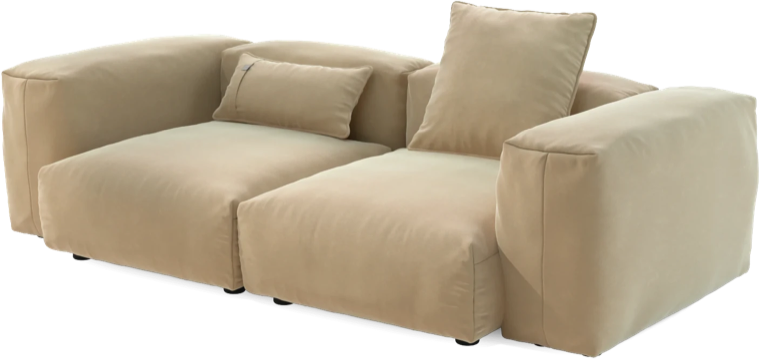
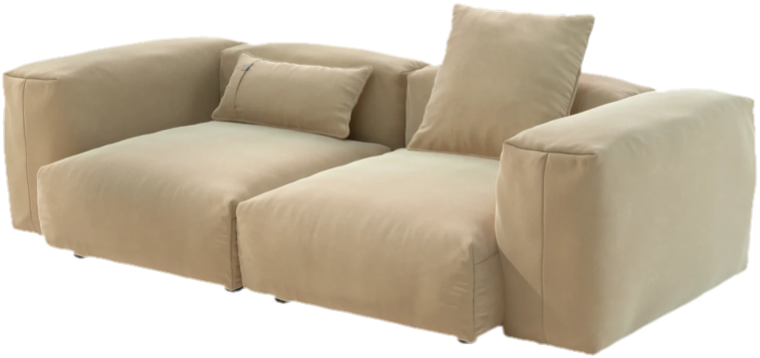
Look: shadow along the real bottom outline, files lying flat, clean sofa edge
- The floor shadow follows each chair's bottom outline column by column, so it
  sits under the feet on slanted photos instead of floating as a flat band.
- Files on the pile lie flat (stronger tilt back), a bit smaller, with a tight
  contact shadow; the sand sofa's seat point keeps them on the cushions.
- Pre-cut pictures get their edge pulled in by two pixels, removing the white
  rim left from the original white background (sand sofa re-cut).

diff --git a/Sources/Sofaonmac/SofaView.swift b/Sources/Sofaonmac/SofaView.swift
@@ -47,25 +47,27 @@ struct SofaView: View {
         }
     }
 
-    /// The chair's own outline, squashed flat onto the floor and blurred: a contact shadow that fits every
-    /// shape (legs, arms, a lopsided bean bag), plus a wide, very soft one around it.
+    /// A shadow that runs along the chair's actual bottom outline (feet, edges, slanted photos alike):
+    /// a dark, tight contact shadow right at the outline and a wide, soft one around it.
+    /// It's drawn behind the chair, so only the part below the outline shows.
     private func floorShadow(_ chair: CGRect) -> some View {
-        let silhouette = Image(nsImage: model.style.image).resizable().renderingMode(.template)
-        return ZStack {
-            silhouette
-                .foregroundStyle(.black.opacity(0.22))
-                .frame(width: chair.width * 1.04, height: chair.height)
-                .scaleEffect(x: 1, y: 0.16, anchor: .bottom)
-                .blur(radius: 14)
-            silhouette
-                .foregroundStyle(.black.opacity(0.4))
-                .frame(width: chair.width * 0.96, height: chair.height)
-                .scaleEffect(x: 1, y: 0.06, anchor: .bottom)
-                .blur(radius: 4)
+        let profile = model.style.bottomProfile.map {
+            CGPoint(x: chair.minX + chair.width * $0.x, y: chair.minY + chair.height * $0.y)
         }
-        .frame(width: chair.width, height: chair.height)
-        // photos are taken from slightly above: the floor contact sits a bit above the lowest pixel
-        .position(x: chair.midX + 4, y: chair.midY - chair.height * 0.03)
+        func band(depth: CGFloat, inset: CGFloat) -> Path {
+            Path { p in
+                guard let first = profile.first, let last = profile.last else { return }
+                p.move(to: CGPoint(x: first.x + inset, y: first.y - depth * 0.6))
+                for pt in profile { p.addLine(to: CGPoint(x: pt.x, y: pt.y - depth * 0.6)) }
+                p.addLine(to: CGPoint(x: last.x - inset, y: last.y + depth * 0.4))
+                for pt in profile.reversed() { p.addLine(to: CGPoint(x: pt.x, y: pt.y + depth * 0.4)) }
+                p.closeSubpath()
+            }
+        }
+        return ZStack {
+            band(depth: 22, inset: -10).fill(.black.opacity(0.16)).blur(radius: 12)
+            band(depth: 8, inset: 4).fill(.black.opacity(0.32)).blur(radius: 4)
+        }
         .allowsHitTesting(false)
     }
 
@@ -73,13 +75,13 @@ struct SofaView: View {
         let shown = Array(model.items.suffix(14))
         return ForEach(Array(shown.enumerated()), id: \.element.id) { i, item in
             let p = model.preview(of: item)
-            // flat sofas get smaller things, so the pile doesn't swallow them
+            // smaller chairs get smaller things, so the pile doesn't swallow them
             let k = min(1, model.style.chair.height / 190)
-            let size = Thumb.fit(p, maxWidth: 70 * k, maxHeight: 58 * k)
-            Thumb(preview: p, width: size.width, height: size.height, corner: 3)
-                // lying on the cushion, not standing on it
+            let size = Thumb.fit(p, maxWidth: 58 * k, maxHeight: 48 * k)
+            Thumb(preview: p, width: size.width, height: size.height, corner: 3, lying: true)
+                // lying flat on the cushion, seen from slightly above like the chair
                 .rotationEffect(.degrees(item.tilt))
-                .rotation3DEffect(.degrees(38), axis: (x: 1, y: 0, z: 0), perspective: 0.4)
+                .rotation3DEffect(.degrees(58), axis: (x: 1, y: 0, z: 0), anchor: .bottom, perspective: 0.35)
                 .position(x: model.style.seatPoint.x + item.spread * model.style.pileSpread,
                           y: model.style.seatPoint.y - CGFloat(i) * 4)
                 .transition(.asymmetric(insertion: .scale(scale: 1.5).combined(with: .opacity),
@@ -108,6 +110,8 @@ struct Thumb: View {
     let width: CGFloat
     let height: CGFloat
     var corner: CGFloat = 8
+    /// Lying on a cushion: a tight shadow right under it instead of one that makes it float.
+    var lying = false
 
     static func fit(_ p: Preview, maxWidth: CGFloat, maxHeight: CGFloat) -> CGSize {
         if !p.isThumbnail { let s = min(maxWidth, maxHeight) * 1.05; return CGSize(width: s, height: s) }
@@ -122,11 +126,11 @@ struct Thumb: View {
                 .clipShape(RoundedRectangle(cornerRadius: corner, style: .continuous))
                 .overlay(RoundedRectangle(cornerRadius: corner, style: .continuous)
                     .strokeBorder(.white.opacity(0.95), lineWidth: max(1.5, width / 45)))
-                .shadow(color: .black.opacity(0.35), radius: max(2, width / 40), y: max(1, width / 80))
+                .shadow(color: .black.opacity(lying ? 0.45 : 0.35), radius: lying ? 1.2 : max(2, width / 40), y: lying ? 0.8 : max(1, width / 80))
         } else {
             Image(nsImage: preview.image).resizable().aspectRatio(contentMode: .fit)
                 .frame(width: width, height: height)
-                .shadow(color: .black.opacity(0.3), radius: max(1.5, width / 50), y: max(1, width / 90))
+                .shadow(color: .black.opacity(lying ? 0.4 : 0.3), radius: lying ? 1 : max(1.5, width / 50), y: lying ? 0.6 : max(1, width / 90))
         }
     }
 }

diff --git a/Sources/Sofaonmac/SofaStyle.swift b/Sources/Sofaonmac/SofaStyle.swift
@@ -17,7 +17,7 @@ struct SofaStyle: Identifiable, Equatable, Hashable {
         SofaStyle(id: "cord", title: "Cord", subtitle: "Grüner Cord-Sessel", seat: CGPoint(x: 0.35, y: 0.47), spread: 0.16, width: 95),
         SofaStyle(id: "togo", title: "Togo", subtitle: "Der Knautsch-Klassiker in braunem Leder", seat: CGPoint(x: 0.64, y: 0.55), spread: 0.14, width: 105),
         SofaStyle(id: "lc2", title: "LC2", subtitle: "Le Corbusiers Würfel in schwarzem Leder", seat: CGPoint(x: 0.30, y: 0.36), spread: 0.08, width: 90),
-        SofaStyle(id: "sand", title: "Sandsofa", subtitle: "Weiches Modulsofa in Beige", seat: CGPoint(x: 0.42, y: 0.50), spread: 0.22, width: 220),
+        SofaStyle(id: "sand", title: "Sandsofa", subtitle: "Weiches Modulsofa in Beige", seat: CGPoint(x: 0.38, y: 0.45), spread: 0.18, width: 220),
     ]
 
     static let standard = all[0]
@@ -73,6 +73,36 @@ struct SofaStyle: Identifiable, Equatable, Hashable {
     var badgePoint: CGPoint {
         let a = Self.badgeAnchors[id] ?? CGPoint(x: 0.9, y: 0.1)
         return CGPoint(x: chair.minX + chair.width * a.x - 4, y: chair.minY + chair.height * a.y + 4)
+    }
+
+    /// The chair's bottom outline, left to right, as fractions of the picture: for each column the lowest
+    /// visible pixel. The floor shadow follows it, so it sits under feet and edges even on slanted photos.
+    var bottomProfile: [CGPoint] { Self.bottomProfiles[id] ?? [] }
+
+    private static let bottomProfiles: [String: [CGPoint]] = {
+        var out: [String: [CGPoint]] = [:]
+        for s in all {
+            guard let (px, w, h) = smallCopy(s.image) else { continue }
+            var points: [CGPoint] = []
+            for x in 0..<w {
+                guard let y = (0..<h).last(where: { px[($0 * w + x) * 4 + 3] > 128 }) else { continue }
+                points.append(CGPoint(x: (CGFloat(x) + 0.5) / CGFloat(w), y: (CGFloat(y) + 1) / CGFloat(h)))
+            }
+            out[s.id] = points
+        }
+        return out
+    }()
+
+    /// The picture at 120px wide, RGBA, rows from the top.
+    private static func smallCopy(_ image: NSImage) -> (px: [UInt8], w: Int, h: Int)? {
+        guard let cg = image.cgImage(forProposedRect: nil, context: nil, hints: nil) else { return nil }
+        let w = 120, h = max(1, Int(CGFloat(w) * CGFloat(cg.height) / CGFloat(cg.width)))
+        var px = [UInt8](repeating: 0, count: w * h * 4)
+        guard let ctx = CGContext(data: &px, width: w, height: h, bitsPerComponent: 8, bytesPerRow: w * 4,
+                                  space: CGColorSpaceCreateDeviceRGB(),
+                                  bitmapInfo: CGImageAlphaInfo.premultipliedLast.rawValue) else { return nil }
+        ctx.draw(cg, in: CGRect(x: 0, y: 0, width: w, height: h))
+        return (px, w, h)
     }
 
     private static let badgeAnchors: [String: CGPoint] = {

diff --git a/Sources/Sofaonmac/Cutout.swift b/Sources/Sofaonmac/Cutout.swift
@@ -49,8 +49,10 @@ enum Cutout {
             var alpha = [Float](repeating: 0, count: w * h)
             switch kind {
             case .alreadyCut:
-                // keep the picture's own cut, but drop its soft drop shadow
+                // keep the picture's own cut, but drop its soft drop shadow, and pull the edge in by two pixels:
+                // such pictures were usually cut on white, and that white still clings to the outline
                 for i in 0..<(w * h) { alpha[i] = smoothstep(0.6, 0.92, Float(src[i * 4 + 3]) / 255) }
+                alpha = boxBlur(minFilter(minFilter(alpha, w, h), w, h), w, h)
             case .studioWhite:
                 // white that is connected to the border is background; white highlights inside the furniture stay.
                 // Vision's mask (lenient) still removes floor shadows.
